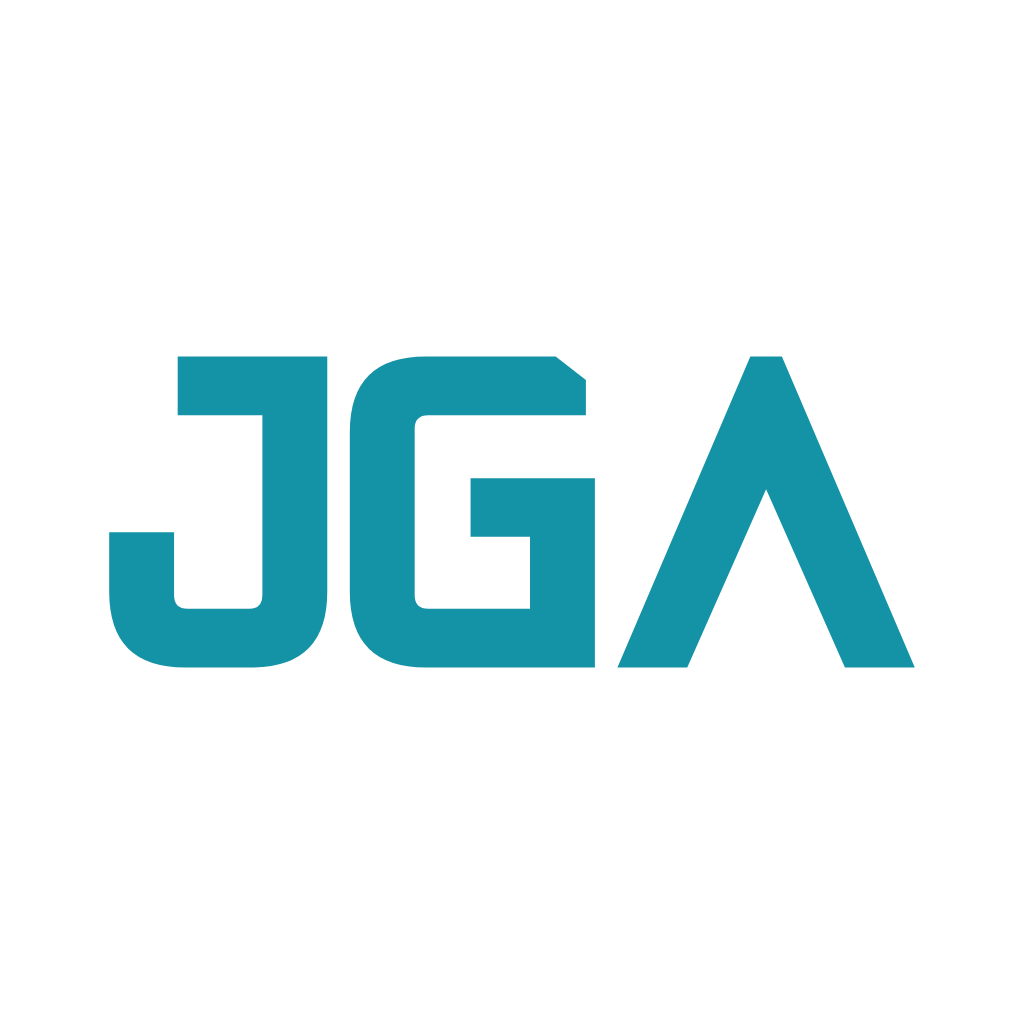
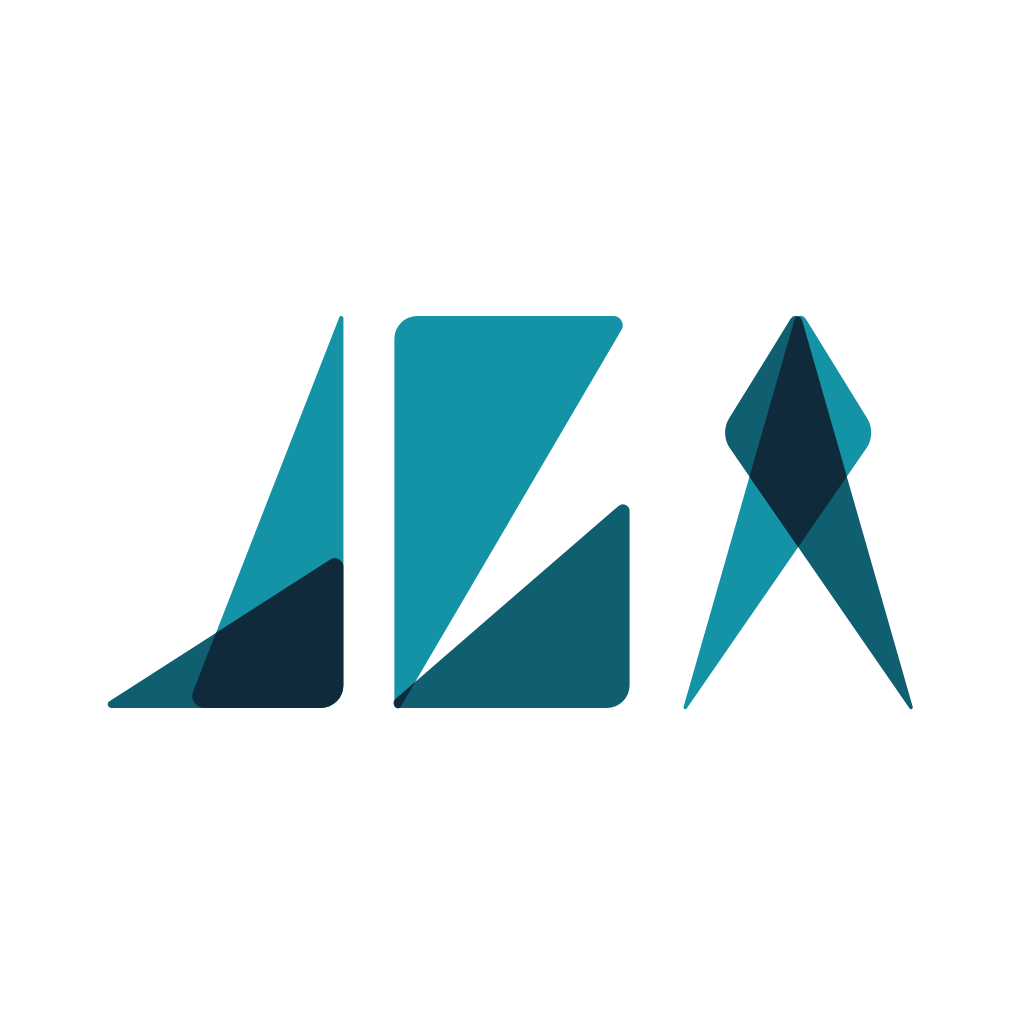
New JGA isotipo: letters folded from rounded triangles
Each letter is two rounded triangles that overlap, with the overlap in a
lighter tone; letters are taller than wide. The geometry lives in
src/data/mark.js, used by the header and by scripts/build-brand.mjs, which
refills the mark in the brand logos, monograms and favicon. PNG exports,
touch icon and the share image were re-rendered from the new mark.

Claude-Session: https://claude.ai/code/session_01UzgqEWbj3j1NSymTgUrLLZ

Changed region(s): [[0.0938, 0.2812, 0.9062, 0.7188]]

diff --git a/src/data/mark.js b/src/data/mark.js
@@ -1,0 +1,87 @@
+// JGA isotipo: each letter is two rounded triangles that overlap (or fold) over
+// each other. The part where they overlap gets its own colour. Shared by the
+// header and scripts/build-brand.mjs so the logo has one source of geometry.
+
+/** Letter box: taller than wide. */
+const W = 60;
+const H = 100;
+const GAP = 13;
+const RADIUS = 7;
+const TIP = 2.4;
+
+/**
+ * Two triangles per letter, in letter-box units (y down). Sharp tips sit
+ * TIP units outside the box so that, once rounded, they end on its edge.
+ */
+const LETTERS = [
+  // J: tall stem along the right side, flat hook running out to the left.
+  [
+    [[60, -2.4], [60, 100], [20, 100]],
+    [[-2.4, 100], [60, 100], [60, 60]],
+  ],
+  // G: top bar folded down the left side, bottom wedge rising on the right.
+  [
+    [[0, 0], [60, 0], [0, 102.4]],
+    [[-2.4, 100], [60, 100], [60, 46]],
+  ],
+  // A: two legs that cross at the top, folded over each other.
+  [
+    [[0, 102.4], [30, -2.4], [50, 30]],
+    [[60, 102.4], [30, -2.4], [10, 30]],
+  ],
+];
+
+export const palettes = {
+  dark: { a: '#74f1ff', b: '#1fa9c0', fold: '#c8f9ff' },
+  light: { a: '#1593a6', b: '#0f5f70', fold: '#0f2a3a' },
+};
+
+const f = (n) => +n.toFixed(2);
+
+/** Closed path for a triangle with every corner rounded by an arc. */
+function rounded(points, r) {
+  const n = points.length;
+  let d = '';
+  for (let i = 0; i < n; i++) {
+    const p = points[i];
+    const prev = points[(i + n - 1) % n];
+    const next = points[(i + 1) % n];
+    const v1 = [prev[0] - p[0], prev[1] - p[1]];
+    const v2 = [next[0] - p[0], next[1] - p[1]];
+    const l1 = Math.hypot(...v1);
+    const l2 = Math.hypot(...v2);
+    const angle = Math.acos((v1[0] * v2[0] + v1[1] * v2[1]) / (l1 * l2));
+    // A full radius would blunt sharp corners and pull their tips well inside
+    // the letter box, so shrink it until the tip loses at most TIP units.
+    const half = angle / 2;
+    const rr = Math.min(r, TIP / (1 / Math.sin(half) - 1));
+    const t = rr / Math.tan(half);
+    const a = [p[0] + (v1[0] / l1) * t, p[1] + (v1[1] / l1) * t];
+    const b = [p[0] + (v2[0] / l2) * t, p[1] + (v2[1] / l2) * t];
+    const sweep = v1[0] * v2[1] - v1[1] * v2[0] < 0 ? 1 : 0;
+    d += `${i ? 'L' : 'M'}${f(a[0])} ${f(a[1])}A${f(rr)} ${f(rr)} 0 0 ${sweep} ${f(b[0])} ${f(b[1])}`;
+  }
+  return d + 'Z';
+}
+
+export const markWidth = W * 3 + GAP * 2;
+export const markHeight = H;
+
+/**
+ * SVG markup for the mark in a 0 0 markWidth markHeight box.
+ * `id` keeps clip-path ids unique when several marks share a document.
+ */
+export function markSvg(palette = palettes.dark, id = 'jga') {
+  let defs = '';
+  let body = '';
+  LETTERS.forEach((tris, i) => {
+    const dx = i * (W + GAP);
+    const [p1, p2] = tris.map((tri) => rounded(tri.map(([x, y]) => [x + dx, y]), RADIUS));
+    defs += `<clipPath id="${id}-${i}"><path d="${p1}"/></clipPath>`;
+    body +=
+      `<path fill="${palette.a}" d="${p1}"/>` +
+      `<path fill="${palette.b}" d="${p2}"/>` +
+      `<path fill="${palette.fold}" clip-path="url(#${id}-${i})" d="${p2}"/>`;
+  });
+  return `<defs>${defs}</defs>${body}`;
+}
